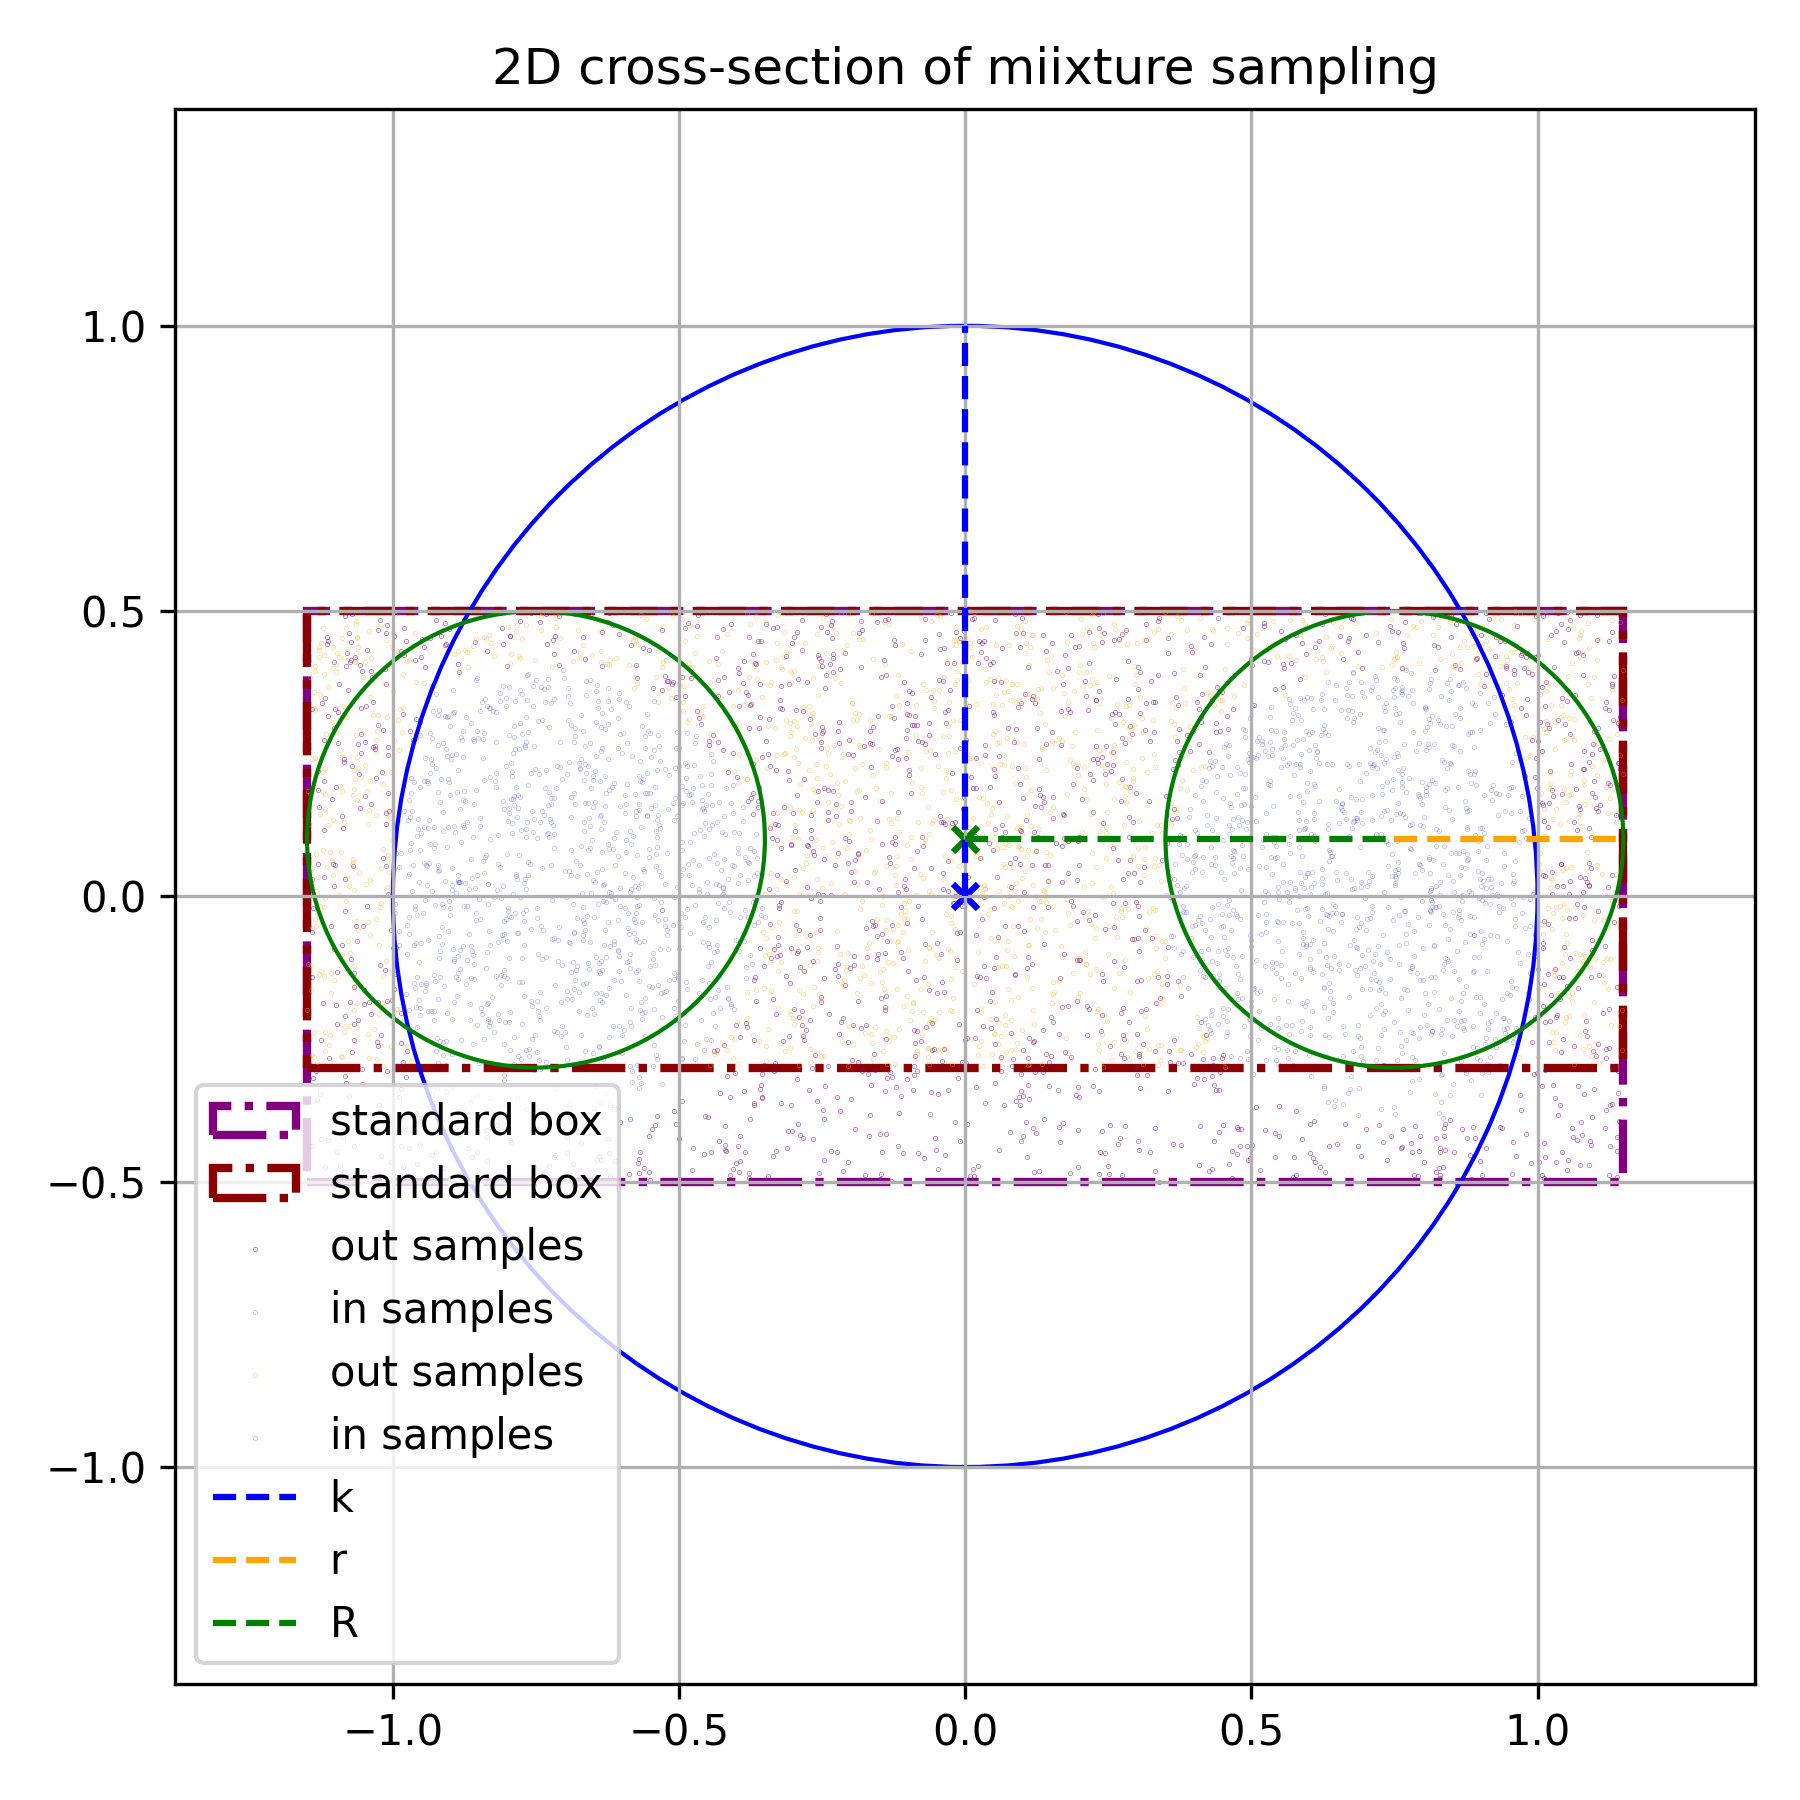
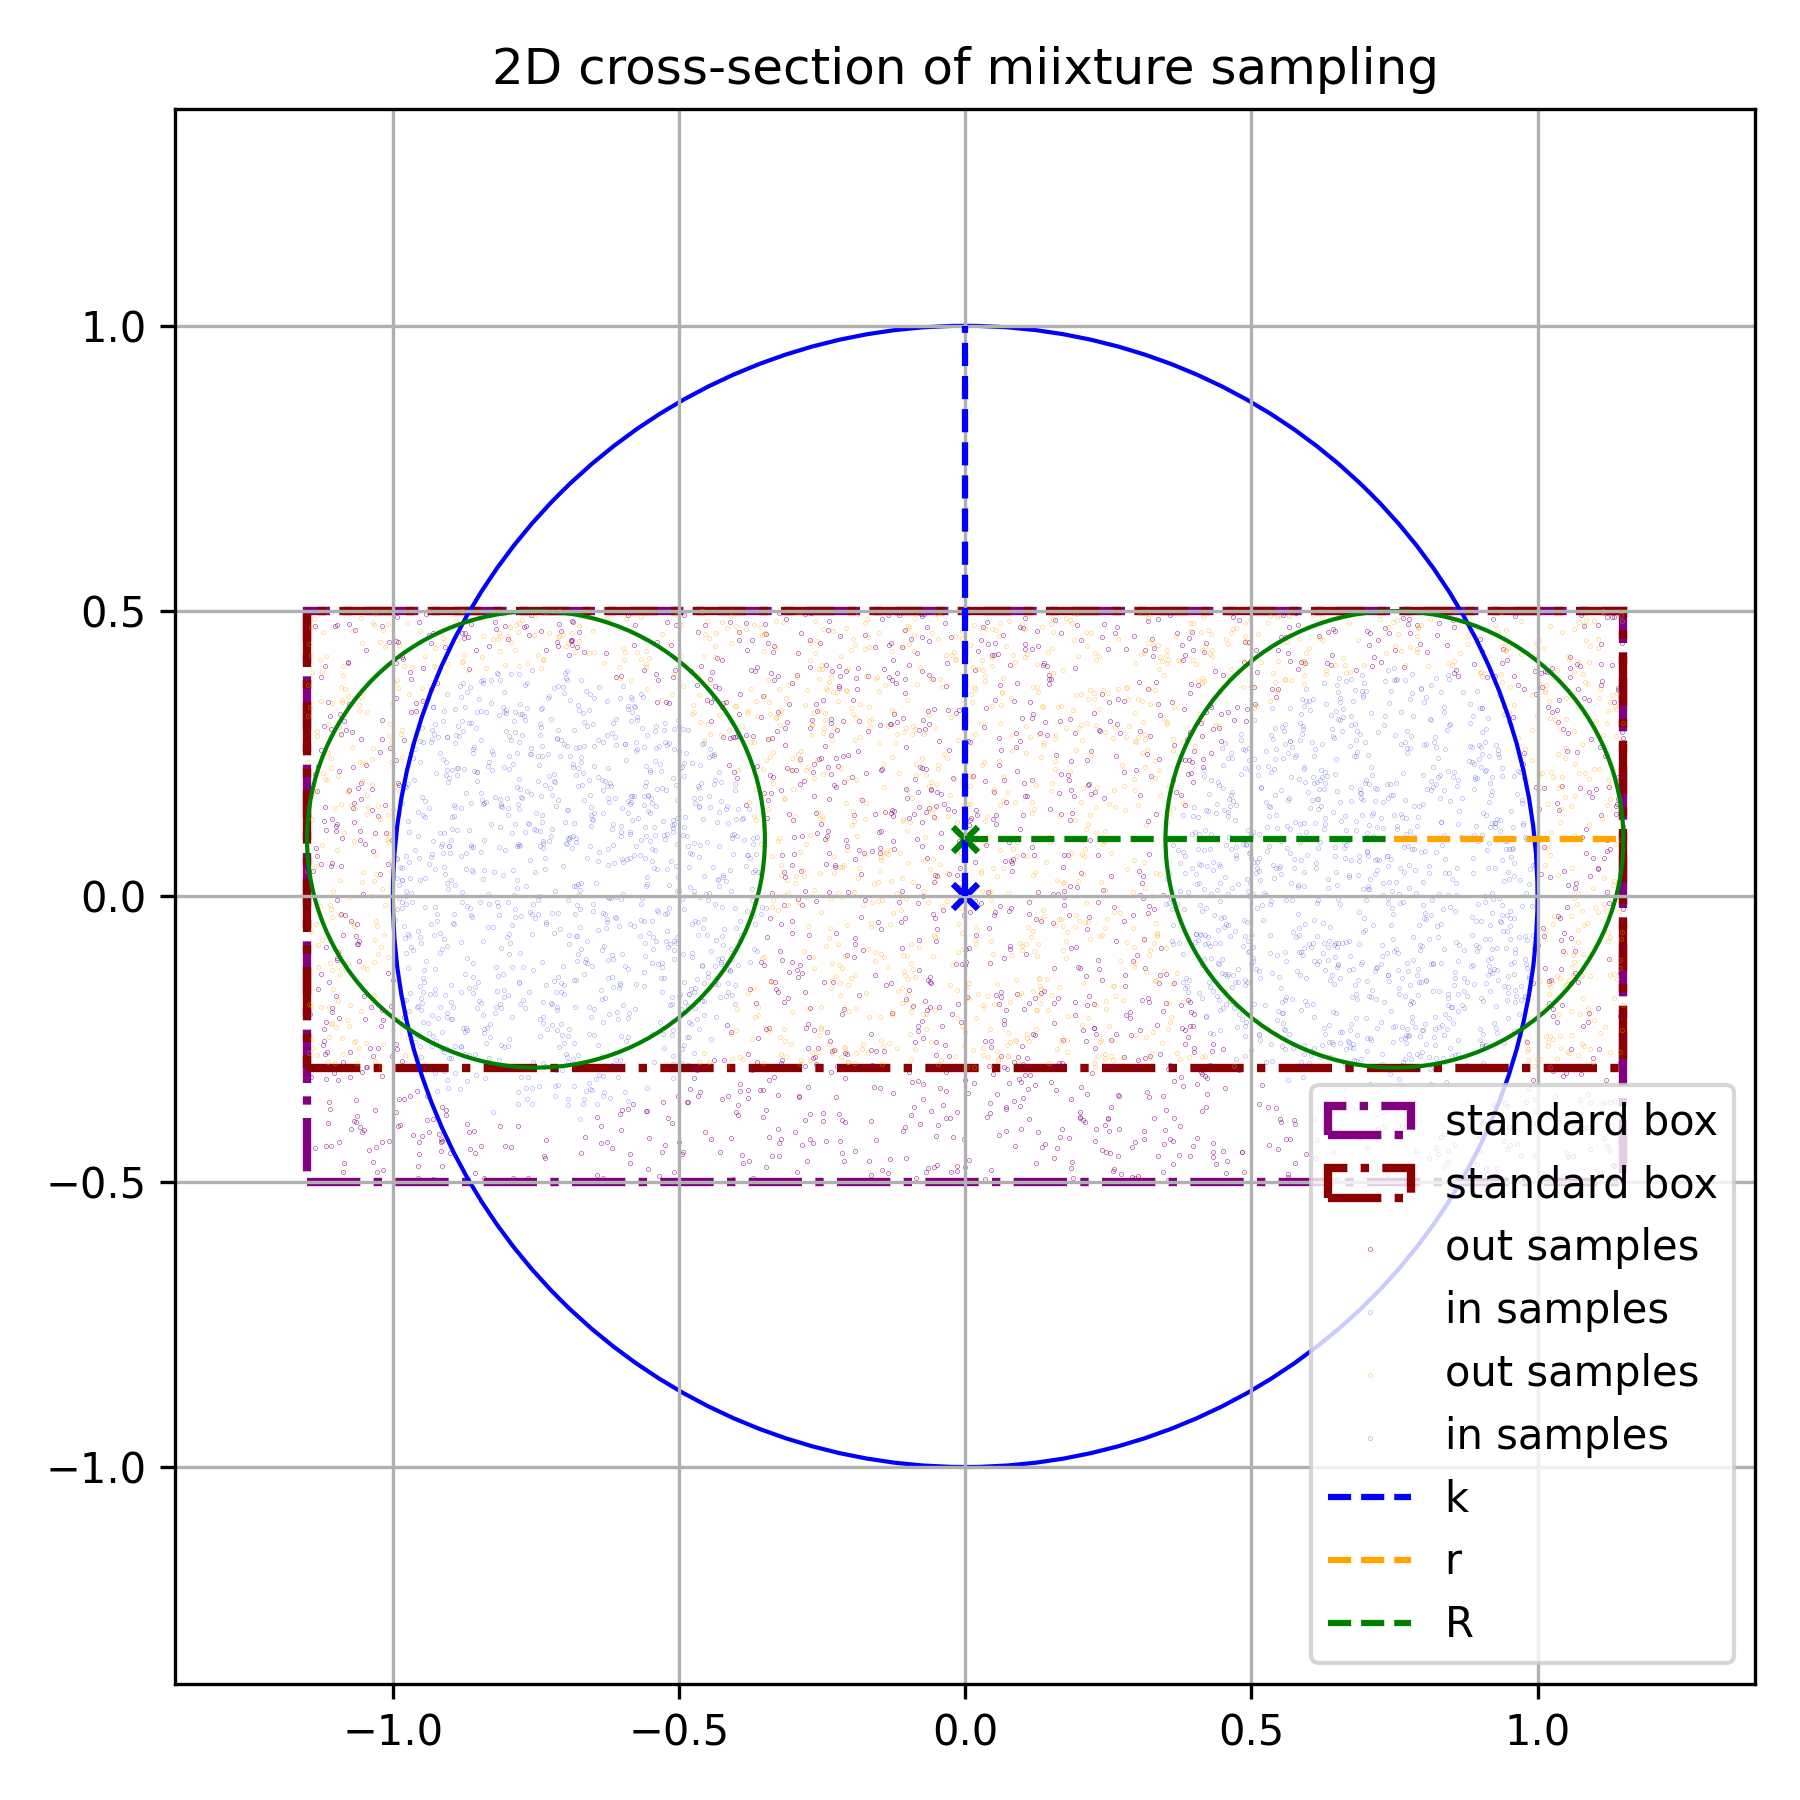
refactoring

diff --git a/main.py b/main.py
@@ -4,8 +4,9 @@ import matplotlib.patches as mpatches
 import matplotlib.pyplot as plt
 import numpy as np
 import pandas as pd
-from tqdm import tqdm
+from matplotlib.axes import Axes
 from numpy.random import rand
+from tqdm import tqdm
 
 BBOX_STANDARD = []
 BBOX_SAMPLE = []
@@ -79,18 +80,6 @@ def sphere(samples: np.ndarray, k: float) -> np.ndarray:
     return mask
 
 
-# TODO: this ok ?
-def torus2D(x: float, y: float, r: float, R: float, origin: list = [0, 0]) -> bool:
-    """
-    Returns true if the given points (x, y, z) is inside the torus defined by the
-    major radius R and the minor radius r.
-    """
-    result = ((x - origin[0] - R) ** 2 + (y - origin[1]) ** 2 - r**2 <= 0) or (
-        (x - origin[0] + R) ** 2 + (y - origin[1]) ** 2 - r**2 <= 0
-    )
-    return result
-
-
 def samples(
     box: list[list[float]],
     n: int = 100_000,
@@ -115,7 +104,9 @@ def samples_2d(
     return samples
 
 
-def monte_carlo_2d(k: float, r: float, R: float, n: int = 100_000) -> float:
+def monte_carlo_2d(
+    k: float, r: float, R: float, n: int = 100_000
+) -> tuple[float, tuple[np.ndarray, np.ndarray]]:
     """
     Estimates area of intersection between circle (radius k) and torus (R, r).
     """
@@ -152,14 +143,21 @@ def monte_carlo_2d(k: float, r: float, R: float, n: int = 100_000) -> float:
 
 
 def monte_carlo_3d(
-    k: float, r: float, R: float, n: int = 100_000, origin: list = [0.0, 0.0, 0.0]
-) -> list[float, np.ndarray]:
+    k: float,
+    r: float,
+    R: float,
+    n: int = 100_000,
+    origin: list = [0.0, 0.0, 0.0],
+    deterministic: bool = False,
+) -> tuple[float, tuple[np.ndarray, np.ndarray]]:
     """
     Estimates volume of intersection between sphere (radius k) and torus (R, r).
     """
     box = box_standard(r, R, origin=origin)  # or box_sample(r, R)
-    print(box)
-    pts = samples(box, n)  # or deterministic_sequence(box, n)
+    if deterministic:
+        pts = deterministic_sequence(np.mean(box, axis=1), n)
+    else:
+        pts = samples(box, n)  # deterministic_sequence(box, n)
 
     inside_sphere = sphere(pts, k)
     inside_torus = torus(pts, r, R, origin=origin)
@@ -176,48 +174,45 @@ def mixed_sampling(
     k: float,
     r: float,
     R: float,
-    p: float,
     n: int = 100_000,
-    origin: list[float] = [0.0, 0.0, 0.0],
-) -> list[float, np.ndarray, np.ndarray]:
+    p: float = 0.5,
+    origin: list[float] | None = None,
+) -> tuple[float, tuple[tuple[np.ndarray, np.ndarray], tuple[np.ndarray, np.ndarray]]]:
     """
-    Estimates volume of intersection between sphere (radius k) and torus (R, r),
-    sampling from a box centered in (0, 0, 0) with probability p
-    and from a smaller box centered in given origin with probability (1-p).
+    Estimates the volume of intersection between a sphere (radius k) and a torus (R, r)
+    using mixed Monte Carlo sampling.
+
+    With probability `p`, samples are drawn from a standard box centered at (0, 0, 0),
+    and with probability (1 - p), from a smaller box centered at a shifted `origin`.
     """
+    if origin is None:
+        origin = [0.0, 0.0, 0.0]
+
+    # --- Vectorized sampling ---
+    n1 = int(p * n)
+    n2 = n - n1
+
     box1 = box_standard(r, R, origin=origin)
     box2 = box_sample(r, R, origin=origin)
 
-    print(f"box1 = {box1} and box2 = {box2}")
-    pts1 = []
-    pts2 = []
+    pts1 = samples(box1, n1)
+    pts2 = samples(box2, n2)
 
-    for _ in range(n):
-        rnd = rand()
-        if rnd <= p:
-            pts1.append(samples(box1, 1)[0])
+    # --- Evaluate intersection for box1 ---
+    mask1 = sphere(pts1, k) & torus(pts1, r, R)
+    count1 = np.count_nonzero(mask1)
 
-        else:
-            pts2.append(samples(box2, 1)[0])
-    # first box:
-    pts1 = np.array(pts1)
-    pts2 = np.array(pts2)
-    inside_sphere = sphere(pts1, k)
-    inside_torus = torus(pts1, r, R)
-    count1 = np.sum(inside_sphere & inside_torus)
-    pts1_in = inside_sphere & inside_torus
+    # --- Evaluate intersection for box2 ---
+    mask2 = sphere(pts2, k) & torus(pts2, r, R)
+    count2 = np.count_nonzero(mask2)
 
-    # second box
-    inside_sphere = sphere(pts2, k)
-    inside_torus = torus(pts2, r, R)
-    count2 = np.sum(inside_sphere & inside_torus)
-    pts2_in = inside_sphere & inside_torus
+    # --- Combine estimates (weighted average) ---
+    vol1 = box_volume(box1)
+    vol2 = box_volume(box2)
 
-    result = p * (count1 / len(pts1) * box_volume(box1)) + (1 - p) * (
-        count2 / len(pts2) * box_volume(box2)
-    )
+    result = p * (count1 / n1 * vol1) + (1 - p) * (count2 / n2 * vol2)
 
-    return result, (pts1, pts1_in), (pts2, pts2_in)
+    return result, ((pts1, mask1), (pts2, mask2))
 
 
 def surface_to_volume(R: float, surface_area: float) -> float:
@@ -230,22 +225,27 @@ def surface_to_volume(R: float, surface_area: float) -> float:
 
 
 def generate_dataframe(
-    k: float, r: float, R: float, simulator: list[callable], n: int = 100_000
-) -> pd.DataFrame:
+    k: float, r: float, R: float, n: int = 100_000
+) -> tuple[pd.Series, pd.Series]:
     # 1. Run monte_carlo_2d
     # 2. Run monte_carlo_3d
     # 3. Run mixed_sampling
     # 4. Run deterministic_sequence
 
     results = []
-    for f in tqdm(simulator):
-        results.append(pd.DataFrame(run_multi_executions(f, n, k, r, R)))
-
+    results.append(pd.DataFrame(run_multi_executions(monte_carlo_2d, n, k, r, R)))
+    results.append(pd.DataFrame(run_multi_executions(monte_carlo_3d, n, k, r, R)))
+    results.append(pd.DataFrame(run_multi_executions(mixed_sampling, n, k, r, R)))
+    results.append(
+        pd.DataFrame(
+            run_multi_executions(monte_carlo_3d, n, k, r, R, deterministic=True)
+        )
+    )
     df = pd.concat(results, axis=1)
     means = df.mean(axis=0)
     stds = df.std(axis=0)
 
-    return [means, stds]
+    return means, stds
 
 
 def generate_table(means: pd.DataFrame, std: pd.DataFrame, names_methods: list[str]):
@@ -273,24 +273,18 @@ def find_centroid(in_pts: np.ndarray) -> np.ndarray:
     return [[centroid_x_plus, centroid_y], [centroid_x_minus, centroid_y]]
 
 
-# TODO: bottle neck
 def deterministic_sequence(points: np.ndarray, n: int = 100_000) -> np.ndarray:
-    """
-    Generates a deterministic sequence of numbers
-    based on the seed. Must be between 0 and 1.
-    """
-    x_0, y_0, z_0 = points[1], points[1], points[2]
+    x = np.empty(n)
+    y = np.empty(n)
+    z = np.empty(n)
 
-    samples = np.random.uniform(0, 0, size=(n, 3))
-    for i in range(n):
-        x_0 = (x_0 * 3.8 * (1 - x_0)) % 1
-        y_0 = (y_0 * 3.8 * (1 - y_0)) % 1
-        z_0 = (z_0 * 3.8 * (1 - z_0)) % 1
-        samples[i, 0] = x_0
-        samples[i, 1] = y_0
-        samples[i, 2] = z_0
+    x[0], y[0], z[0] = points[:3]
+    for i in range(1, n):
+        x[i] = 3.8 * x[i - 1] * (1 - x[i - 1])
+        y[i] = 3.8 * y[i - 1] * (1 - y[i - 1])
+        z[i] = 3.8 * z[i - 1] * (1 - z[i - 1])
 
-    return samples
+    return np.stack((x, y, z), axis=1)
 
 
 def plot_2d(
@@ -299,13 +293,13 @@ def plot_2d(
     R: float,
     origin_s: list = [0, 0],
     origin_t: list = [0, 0],
-    pts: np.ndarray = None,
-    pts_in: np.ndarray = None,
-    centroid: np.ndarray = None,
+    pts: np.ndarray | None = None,
+    pts_in: np.ndarray | None = None,
+    centroid: np.ndarray | None = None,
     save_path: str = "",
     show: bool = False,
     title: str = "",
-) -> plt.Axes:
+) -> Axes:
     """
     Plots the intersection between the sphere and the torus.
     k: radius of the sphere
@@ -482,8 +476,12 @@ def plot_2d(
 
 
 def plot_3d(
-    k: float, r: float, R: float, pts: np.ndarray = None, pts_in: np.ndarray = None
-) -> plt.Axes:
+    k: float,
+    r: float,
+    R: float,
+    pts: np.ndarray | None = None,
+    pts_in: np.ndarray | None = None,
+) -> Axes:
     """
     Plots the intersection between the sphere and the torus in 3D.
     k: radius of the sphere
@@ -583,16 +581,20 @@ def run_multi_executions(
     k: float,
     r: float,
     R: float,
-) -> list[float]:
+    deterministic: bool = False,
+) -> np.ndarray:
     """
     Runs multiple executions of the given simulation function and returns the results.
     sim: simulation function to run
     runs: number of runs to execute
     """
-    results = []
-    for _ in range(runs):
-        result, _ = sim(k, r, R, n)
-        results.append(result)
+    results = np.empty(runs)
+    for i in tqdm(range(runs), desc="Running simulations"):
+        if deterministic:
+            result, _ = sim(k, r, R, n, deterministic=True)
+        else:
+            result, _ = sim(k, r, R, n)
+        results[i] = result
     return results
 
 
@@ -602,14 +604,14 @@ def plot_mix_2d(
     R: float,
     origin_s: list = [0, 0, 0],
     origin_t: list = [0, 0, 0],
-    pts1: np.ndarray = None,
-    pts1_in: np.ndarray = None,
-    pts2: np.ndarray = None,
-    pts2_in: np.ndarray = None,
+    pts1: np.ndarray | None = None,
+    pts1_in: np.ndarray | None = None,
+    pts2: np.ndarray | None = None,
+    pts2_in: np.ndarray | None = None,
     save_path: str = "",
     show: bool = False,
     title: str = "",
-) -> plt.Axes:
+) -> Axes:
     """
     Plots the intersection between the sphere and the torus.
     k: radius of the sphere
@@ -833,36 +835,6 @@ if __name__ == "__main__":
     n = 100_000  # Monte Carlo samples
     origin_shift = [0.0, 0.0, 0.1]
 
-    # sequence = deterministic_sequence(seed_deterministic, n)
-    # print(sequence)
-    # --- Monte Carlo volume estimation ---
-
-    #    estimated_volume, (pts, pts_in) = monte_carlo_3d(k, r, R, n)
-    #    print(pts.shape, pts_in.shape)
-    #    print(f"Estimated intersection volume (sphere ∩ torus): {estimated_volume:.9f}")
-    # --- 3D plot --- (quite slow)
-    # plot_3d(k, r, R, pts=pts, pts_in=pts_in)
-    # --- 2D plot ---
-    # delta = 0.35 * r
-    # slice_y = np.abs(pts[:, 1]) < delta
-    # pts_in_2d = pts_in & slice_y
-    # centroid_2d = find_centroid(pts[pts_in_2d])
-    #    plot_2d(k, r, R, pts=pts, pts_in=pts_in, save_path="img/2d.png")
-
-    # --- Monte Carlo volume estimation via 2D simplification ---
-    #    estimated_volume_2d, (pts_2d, pts_in_2d) = monte_carlo_2d(k, r, R, n)
-    #    plot_2d(
-    #        k,
-    #        r,
-    #        R,
-    #        pts=pts_2d,
-    #        pts_in=pts_in_2d,
-    #        centroid=find_centroid(pts_2d[pts_in_2d]),
-    #        save_path="img/2d_estimate_via_2d.png",
-    #        title="2D cross-section based on 2D estimation method",
-    #    )
-    #    print(f"Estimated intersection volume via 2D method: {estimated_volume_2d:.9f}")
-
     # --- Monte Carlo volume estimation with mixed sampling ---
 
     estimated_volume, (pts, pts_in) = monte_carlo_3d(k, r, R, n, origin=origin_shift)
@@ -870,8 +842,8 @@ if __name__ == "__main__":
         f"Estimated intersection volume (sphere ∩ torus) with torus' origin shifted: {estimated_volume:.9f}"
     )
 
-    estimated_volume_mix, (pts1, pts1_in), (pts2, pts2_in) = mixed_sampling(
-        k, r, R, 0.5, n, origin=origin_shift
+    estimated_volume_mix, ((pts1, pts1_in), (pts2, pts2_in)) = mixed_sampling(
+        k, r, R, n, p=0.5, origin=origin_shift
     )
     print(
         f"shape of pt1, pt1_in: {pts1.shape, pts1_in.shape}, shape of pt2, pt2_in: { pts2.shape, pts2_in.shape}"
@@ -895,7 +867,6 @@ if __name__ == "__main__":
     )
 
     # --- Generate results table ---
-    simulator = [monte_carlo_2d, monte_carlo_3d, mixed_sampling]
-    names_methods = ["2D MC", "3D MC", "Mixed Sampling"]
-    means, std = generate_dataframe(k, r, R, simulator, n)
+    names_methods = ["Mixed Sampling", "2D MC", "3D MC", "Deterministic Sequence"]
+    means, std = generate_dataframe(k, r, R, n=1_000)
     generate_table(means, std, names_methods)

diff --git a/img/table.tex b/img/table.tex
@@ -1,0 +1,10 @@
+\begin{tabular}{lrr}
+\toprule
+Method & Mean Volume & Std Dev \\
+\midrule
+Mixed Sampling & 1.856008 & 0.004579 \\
+2D MC & 1.856066 & 0.006578 \\
+3D MC & 1.856084 & 0.006607 \\
+Deterministic Sequence & 0.000000 & 0.000000 \\
+\bottomrule
+\end{tabular}
